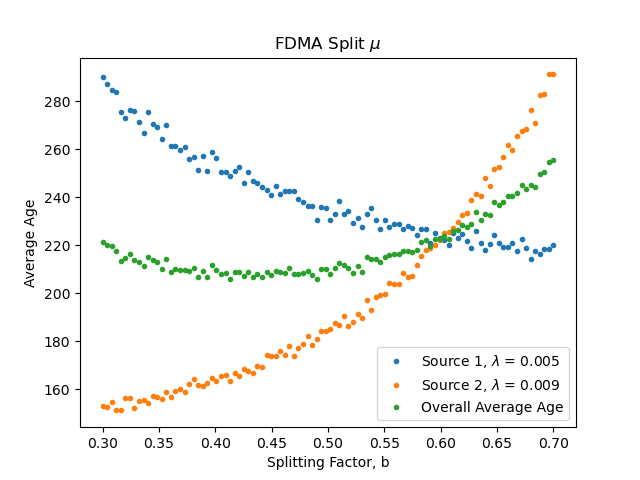
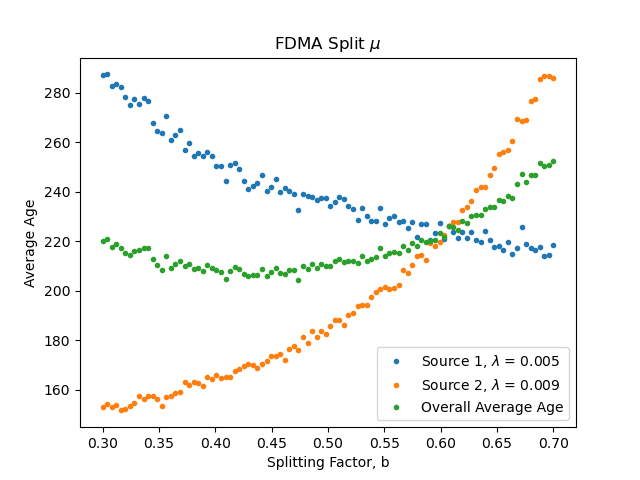
Updated plots

diff --git a/Python/FDMA_split_mu.py b/Python/FDMA_split_mu.py
@@ -21,10 +21,10 @@ if __name__ == "__main__":
     # Set arrival rates for each source (packet/second)
     arrivalRate = [0, 0]
     # Need to make sure that the arrival rate will always be less than the service rate
-    arrivalRate[0] = mu * min(splitFactor) * 0.4
-    arrivalRate[1] = mu * (1 - max(splitFactor)) * 0.9
+    arrivalRate[0] = mu * min(splitFactor) * 0.5
+    arrivalRate[1] = mu * (1 - max(splitFactor)) * 0.3
 
-    numSimulations = 1000
+    numSimulations = 1000 
     avgAge = np.zeros((bLength, numSources,))
 
     start_time = time.time()

diff --git a/Python/TDMA_Split_Slot.py b/Python/TDMA_Split_Slot.py
@@ -22,8 +22,8 @@ if __name__ == "__main__":
     # Set arrival rates for each source (packet/second)
     arrivalRate = [0, 0]
     # Need to make sure that the arrival rate will always be less than the service rate
-    arrivalRate[0] = mu * min(splitFactor) * 0.9
-    arrivalRate[1] = mu * (1 - max(splitFactor)) * 0.9
+    arrivalRate[0] = mu * min(splitFactor) * 0.5
+    arrivalRate[1] = mu * (1 - max(splitFactor)) * 0.3
 
     numSimulations = 1000
     avgAge = np.zeros((bLength, numSources,))
